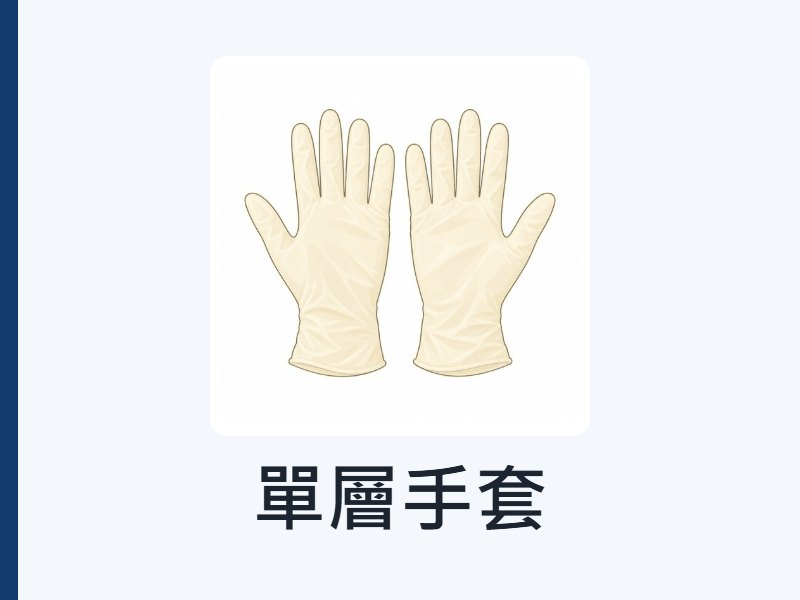
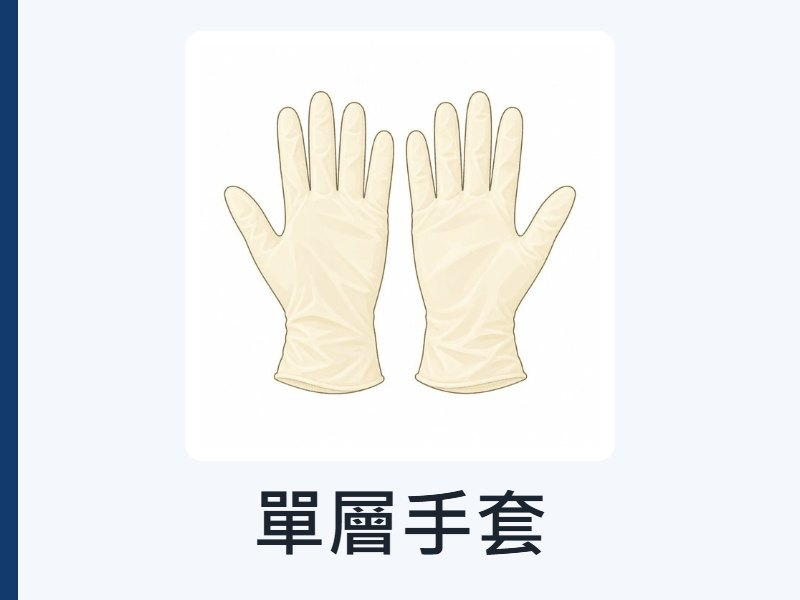
Web VR: enlarge ported handson cards in scene (PPE items, options, gate, next-station buttons), taller 9-step summary card

Changed region(s): [[0.2812, 0.15, 0.7188, 0.66], [0.3125, 0.75, 0.6875, 0.93]]

diff --git a/docs/vr/index.html b/docs/vr/index.html
@@ -165,8 +165,9 @@ $("#pClose").onclick=()=>{$("#panel").classList.remove("on"); $("#pFrame").src="
 /* 直式手機版面：全部放正前方一欄，寬度 ≤2.6 公尺（4.2 公尺外約 36°） */
 function layoutPortrait(st,s,nextFn){
   const Z=-4.2;
-  if(s.type==="info"){ mk(st,s.main,{x:0,y:2.2,z:Z,w:2.6});
-    if(s.btns) s.btns.forEach((b,k)=>mk(st,b.img,{x:0,y:1.2-k*0.42,z:Z,w:1.45,click:()=>to(b.to)}));
+  if(s.type==="info"){ const [mw,mh]=D.sizes[s.main], tall=mh/mw>0.7, cy=tall?2.35:2.2; mk(st,s.main,{x:0,y:cy,z:Z,w:2.6});
+    const by=cy-2.6*mh/mw/2-0.3;
+    if(s.btns) s.btns.forEach((b,k)=>mk(st,b.img,{x:0,y:(tall?by:1.2)-k*0.42,z:Z,w:1.6,click:()=>to(b.to)}));
     else mk(st,s.next,{x:0,y:1.05,z:Z,w:1.3,click:nextFn}); }
   if(s.type==="mcq") layMcq(st,s,true);
   if(s.type==="multi") layMulti(st,s,true);
@@ -202,8 +203,8 @@ function go(i,quiet){
   const nextFn=()=>go(cur+1);
   if(PORTRAIT()) layoutPortrait(st,s,nextFn); else {
   if(s.type==="info"){
-    mk(st,s.main,{x:0,y:1.9,z:-4.2,w:3.4});
-    if(s.next) mk(st,s.next,{x:0,y:0.55,z:-3.6,rx:-20,w:1.4,click:nextFn});
+    if(s.id==="sum1") mk(st,s.main,{x:0,y:1.6,z:-2.7,w:3.0}); else mk(st,s.main,{x:0,y:1.95,z:-4.0,w:3.8});
+    if(s.next) mk(st,s.next,{...(s.id==="sum1"?arc(48,3.3):{x:0,z:-3.3}),y:s.id==="sum1"?1.3:0.4,rx:s.id==="sum1"?0:-22,w:2.2,click:nextFn});
   }
   if(s.type==="clues"){
     mk(st,s.main,{x:0,y:2.4,z:-4.6,w:2.9});
@@ -218,13 +219,14 @@ function go(i,quiet){
       s.opts.forEach((o,k)=>mk(st,o.img,{...Op,y:1.45+((n-1)/2-k)*0.8,w:2.45,click:()=>answer(s,o.k)})); }
     if(s.poster){const p=arc(-70,3.6); mk(st,s.poster.img,{...p,y:1.6,w:1.3,click:()=>play(s.poster.au)});}
   }
-  if(s.type==="info"&&s.btns){ const n=s.btns.length; s.btns.forEach((b,k)=>{const p=arc((k-(n-1)/2)*24,3.8); mk(st,b.img,{...p,y:0.35,rx:-20,w:1.35,click:()=>to(b.to)});}); }
+  if(s.type==="info"&&s.btns){ const n=s.btns.length; s.btns.forEach((b,k)=>{ if(s.id==="sum1"){ mk(st,b.img,{...arc(38+k*16,3.0),y:0.55-k*0.7,w:1.9,click:()=>to(b.to)}); return; }
+    const p=arc((k-(n-1)/2)*36,3.4); mk(st,b.img,{...p,y:0.3,rx:-22,w:2.7,click:()=>to(b.to)});}); }
   if(s.type==="mcq") layMcq(st,s,false);
   if(s.type==="multi") layMulti(st,s,false);
   if(s.type==="hold") layHold(st,s,false);
-  if(s.type==="gate"){ mk(st,s.main,{x:0,y:1.95,z:-4.2,w:3.3});
-    mk(st,s.open,{...arc(-15,3.7),y:0.45,rx:-20,w:1.5,click:()=>open2D(s.url,s.utitle,D.steps.find(x=>x.type==="end"))});
-    mk(st,s.checked,{...arc(15,3.7),y:0.45,rx:-20,w:1.2,click:()=>gateDone(s)}); }
+  if(s.type==="gate"){ mk(st,s.main,{x:0,y:2.0,z:-4.0,w:3.9});
+    mk(st,s.open,{...arc(-17,3.6),y:0.35,rx:-20,w:2.0,click:()=>open2D(s.url,s.utitle,D.steps.find(x=>x.type==="end"))});
+    mk(st,s.checked,{...arc(17,3.6),y:0.35,rx:-20,w:1.7,click:()=>gateDone(s)}); }
   if(s.type==="paint") layPaint(st,s,false);
   if(s.type==="end"){
     mk(st,s.toC2,{...arc(-62,3.6),y:1.45,w:1.4,click:()=>to("c2intro")});
@@ -247,20 +249,20 @@ function layMcq(st,s,P){
   if(P){ mk(st,s.q,{x:0,y:2.45,z:Z,w:2.6});
     if(s.grid) s.opts.forEach((o,k)=>mk(st,o.img,{x:(k-(n-1)/2)*0.9,y:1.3,z:Z,w:0.84,click:()=>fb(o)}));
     else s.opts.forEach((o,k)=>mk(st,o.img,{x:0,y:1.45-k*0.86,z:Z,w:2.6,click:()=>fb(o)})); }
-  else if(s.grid){ mk(st,s.q,{x:0,y:2.35,z:-4.4,w:2.9});
-    s.opts.forEach((o,k)=>{const p=arc((k-(n-1)/2)*20,4.2); mk(st,o.img,{...p,y:0.85,w:1.4,click:()=>fb(o)});}); }
-  else { mk(st,s.q,{...arc(-19,4.2),y:1.55,w:2.8}); const Op=arc(19,4.0);
-    s.opts.forEach((o,k)=>mk(st,o.img,{...Op,y:1.45+((n-1)/2-k)*0.8,w:2.45,click:()=>fb(o)})); }
+  else if(s.grid){ mk(st,s.q,{x:0,y:2.55,z:-4.4,w:3.3});
+    s.opts.forEach((o,k)=>{const p=arc((k-(n-1)/2)*27,4.0); mk(st,o.img,{...p,y:0.75,w:1.9,click:()=>fb(o)});}); }
+  else { mk(st,s.q,{...arc(-22,4.0),y:1.55,w:3.3}); const Op=arc(22,3.8);
+    s.opts.forEach((o,k)=>mk(st,o.img,{...Op,y:1.5+((n-1)/2-k)*1.02,w:3.1,click:()=>fb(o)})); }
   if(s.poster&&!P){ mk(st,s.poster.img,{...arc(-70,3.6),y:1.6,w:1.3,click:()=>play(s.poster.au)}); }   // 直式手機空間不夠，海報只在橫式／頭顯顯示
 }
 /* PPE：點選要穿戴的 4 件（VR 取代拖放；不分順序）→ 檢查；錯兩次直接幫你選好正解 */
 function layMulti(st,s,P){
   const sel=new Set(), frames=[]; let fails=0; const Z=-4.2;
   const toggle=k=>{ sel.has(k)?sel.delete(k):sel.add(k); frames[k].setAttribute("visible",sel.has(k)); };
-  if(P) mk(st,s.q,{x:0,y:2.55,z:Z,w:2.6}); else mk(st,s.q,{x:0,y:2.6,z:-4.4,w:2.7});
+  if(P) mk(st,s.q,{x:0,y:2.6,z:Z,w:2.6}); else mk(st,s.q,{x:0,y:2.95,z:-4.4,w:3.0});
   s.items.forEach((it,k)=>{ const r=Math.floor(k/4), c=k%4; let pos, w;
-    if(P){ w=0.6; pos={x:(c-1.5)*0.64,y:1.75-r*0.5,z:Z,ry:0}; }
-    else { w=1.0; const a=arc((c-1.5)*15,4.1); pos={...a,y:1.55-r*0.82}; }
+    if(P){ w=0.7; pos={x:(c-1.5)*0.74,y:1.8-r*0.58,z:Z,ry:0}; }
+    else { w=1.5; const a=arc((c-1.5)*22,4.0); pos={...a,y:1.65-r*1.2}; }
     const f=document.createElement("a-plane"); f.setAttribute("width",w*1.1); f.setAttribute("height",w*0.75*1.12);
     f.setAttribute("color","#1f8a4c"); f.setAttribute("visible",false); f.setAttribute("material","shader:flat");
     const a=(pos.ry||0)*Math.PI/180;   // 綠框放在卡片正後方 2 公分
@@ -275,7 +277,7 @@ function layMulti(st,s,P){
       return popup(s.show.img,s.show.au,()=>go(cur+1)); }
     popup(s.ng.img,s.ng.au);
   };
-  if(P) mk(st,s.check,{x:0,y:1.0,z:Z,w:1.1,click:check}); else mk(st,s.check,{x:0,y:0.3,z:-3.5,rx:-28,w:1.2,click:check});
+  if(P) mk(st,s.check,{x:0,y:0.95,z:Z,w:1.1,click:check}); else mk(st,s.check,{...arc(-50,3.6),y:0.9,w:1.4,click:check});
   if(s.poster&&!P){ mk(st,s.poster.img,{...arc(-72,3.6),y:1.6,w:1.3,click:()=>play(s.poster.au)}); }
 }
 /* 回抽：按住按鈕（滑鼠／手指按住、頭顯按住扳機），量筒升到滿＝抽不出；太早放開＝提醒並歸零 */

diff --git a/docs/vr/_build_vr_handson.py b/docs/vr/_build_vr_handson.py
@@ -76,12 +76,12 @@ ul{margin:14px 0 0 1.1em;padding:0}
 .opt{display:flex;gap:34px;align-items:center}.key{flex:none;width:140px;height:140px;border-radius:34px;background:#123a6b;color:#fff;font-size:96px;font-weight:800;display:flex;align-items:center;justify-content:center}
 .opt p{font-size:72px;line-height:1.3}
 .io{display:flex;flex-direction:column;align-items:center;justify-content:center;gap:10px;text-align:center}
-.io img{height:380px;max-width:720px;object-fit:contain;border-radius:18px;background:#fff}
+.io img{height:430px;max-width:760px;object-fit:contain;border-radius:18px;background:#fff}
 .io b{font-size:74px}.io span{font-size:50px;color:#5b6675}
 .btn{display:flex;align-items:center;justify-content:center;color:#fff;font-weight:800;text-align:center;padding:0 30px;white-space:nowrap}
-.grid9{display:grid;grid-template-columns:repeat(3,1fr);gap:14px 22px;margin-top:10px}
-.grid9 div{display:flex;gap:14px;align-items:center;font-size:40px;line-height:1.3;background:#fff;border-radius:16px;padding:8px}
-.grid9 img{width:120px;height:90px;object-fit:contain;flex:none}.grid9 i{font-style:normal;font-weight:800;color:#123a6b;font-size:44px}
+.grid9{display:grid;grid-template-columns:repeat(3,1fr);gap:12px 16px;margin-top:6px}
+.grid9 div{display:flex;flex-direction:column;gap:8px;align-items:center;text-align:center;font-size:48px;line-height:1.3;background:#fff;border-radius:16px;padding:8px}
+.grid9 img{width:240px;height:170px;object-fit:contain;flex:none}.grid9 i{font-style:normal;font-weight:800;color:#123a6b;font-size:44px}
 """
 FIT_JS = """()=>{const r=document.querySelector('[data-root]');if(!r)return 1;
   const over=()=>{if(r.scrollHeight>r.clientHeight+1||r.scrollWidth>r.clientWidth+1)return true;
@@ -210,9 +210,9 @@ def build(card):
     C("HS_Q19_NG", fbcard("ng", "正解說明", q19["explain_ng"], f"文字來源：規格檔 Q19（表單 {q19['form_item']}）", hint="點這張卡片 ▶ 看九步驟總覽"), q19["explain_ng"])
     # ---- 九步驟總覽 ----
     g9 = "".join(f'<div><img src="{img64("h_" + s["id"] + ".png", 240)}"><span><i>{i + 1}</i> {e(s["t"])}</span></div>' for i, s in enumerate(H["STEPS9"]))
-    C("HS_SUM1", (f'<div class="c ok" data-root style="justify-content:flex-start;padding-top:40px"><div class="bar"></div><div class="kick">完成案例一</div>'
-                  f'<h1 style="font-size:64px">初步處理九步驟總覽</h1><div class="grid9">{g9}</div>'
-                  f'<p style="font-size:40px;color:#5b6675;margin-top:14px">第 9 步 DMSO 在案例二。</p></div>', (1600, 900)),
+    C("HS_SUM1", (f'<div class="c ok" data-root style="justify-content:flex-start;padding-top:40px;height:1400px"><div class="bar"></div><div class="kick">完成案例一</div>'
+                  f'<h1 style="font-size:76px">初步處理九步驟總覽</h1><div class="grid9">{g9}</div>'
+                  f'<p style="font-size:44px;color:#5b6675;margin-top:14px">第 9 步 DMSO 在案例二。</p></div>', (1600, 1400)),
       "完成案例一。初步處理九個步驟：" + "；".join(f"第{i + 1}，{s['t']}" for i, s in enumerate(H["STEPS9"])) + "。第九步 DMSO 在案例二。")
     C("HS_GO_LOOKUP", btncard("下一站：查詢站 ▶", "#123a6b", 1000, 300, 72))
     C("HS_GO_C2", btncard("🟣 案例二 DMSO", "#7a3fb5", 1000, 300, 72))
